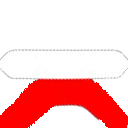
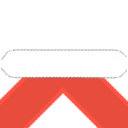
laser

diff --git a/lib/models/element.dart b/lib/models/element.dart
@@ -140,6 +140,7 @@ class Mirror extends ElementLevel with ChangeNotifier {
   Direction reflectedDir(Direction inDir) {
     switch (_clockwiseTimes) {
       case 1:
+        isLaserTouching = true;
         return switch (inDir) {
           Direction.up => Direction.left,
           Direction.left => Direction.up,
@@ -148,6 +149,7 @@ class Mirror extends ElementLevel with ChangeNotifier {
           Direction.none => Direction.none
         };
       case 3:
+        isLaserTouching = true;
         return switch (inDir) {
           Direction.up => Direction.right,
           Direction.right => Direction.up,
@@ -156,6 +158,7 @@ class Mirror extends ElementLevel with ChangeNotifier {
           Direction.none => Direction.none
         };
       default:
+        isLaserTouching = false;
         return Direction.none; // for case 0 and 2, mirror is either | or —
     }
   }

diff --git a/lib/models/game_map.dart b/lib/models/game_map.dart
@@ -148,7 +148,6 @@ class GameMap extends ChangeNotifier {
       final nextDir = (grid[pos] as Mirror).reflectedDir(dir);
       if (nextDir != Direction.none) {
         placeLasersFrom(grid, pos.translate(nextDir), nextDir);
-        (grid[pos] as Mirror).isLaserTouching = true;
       }
     }
   }
